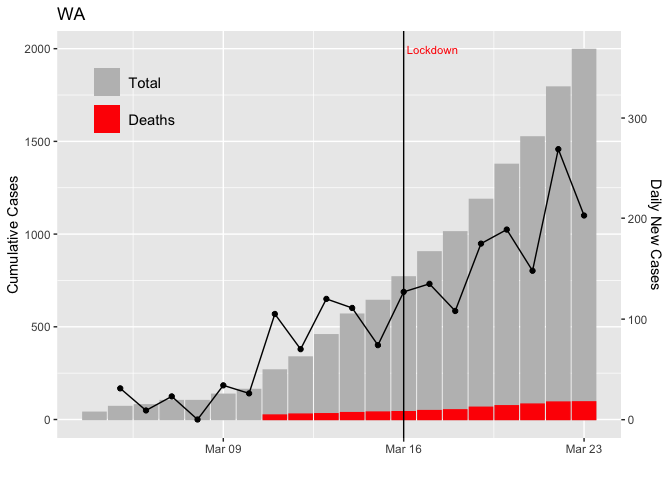
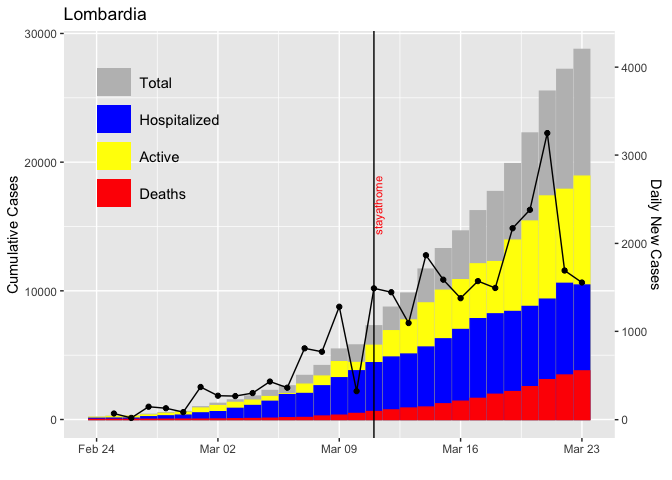
update w plot2

diff --git a/README.md b/README.md
@@ -26,28 +26,36 @@ To get the data, type any of these on command line. After loading.
 
 Use `head()` to look at it. Should be pretty self-evident what it is.
 
-# Plots
+# Functions
 
-There aren’t many. Yet. The basic one I am working on is new cases
-versus cases after a lockdown.
+  - `regions()` will show you the regions in each data set
+  - `plot2()` a basic plot of total, hospitalized, and deaths
+
+# Plots
 
 ``` r
 library(CoV19)
-plot1("states", "WA", lockdown="2020-03-16")
+plot2(italy, "Lombardia", decorate=TRUE)
 ```
 
 ![](README_files/figure-gfm/unnamed-chunk-1-1.png)<!-- -->
 
 ``` r
-plot1("italy", "Lombardia", lockdown="2020-03-11")
+plot2(states, c("WA","CA"))
 ```
 
 ![](README_files/figure-gfm/unnamed-chunk-2-1.png)<!-- -->
 
-Something is odd with the Hubei data in the JHU data set.
-
 ``` r
-plot1("world", "Hubei China", lockdown="2020-01-23")
+plot2(states, c("NY","NJ","PA","MA"))
 ```
 
 ![](README_files/figure-gfm/unnamed-chunk-3-1.png)<!-- -->
+
+Something is odd with the Hubei data in the JHU data set.
+
+``` r
+plot2(world, "Hubei China", decorate=TRUE)
+```
+
+![](README_files/figure-gfm/unnamed-chunk-4-1.png)<!-- -->
